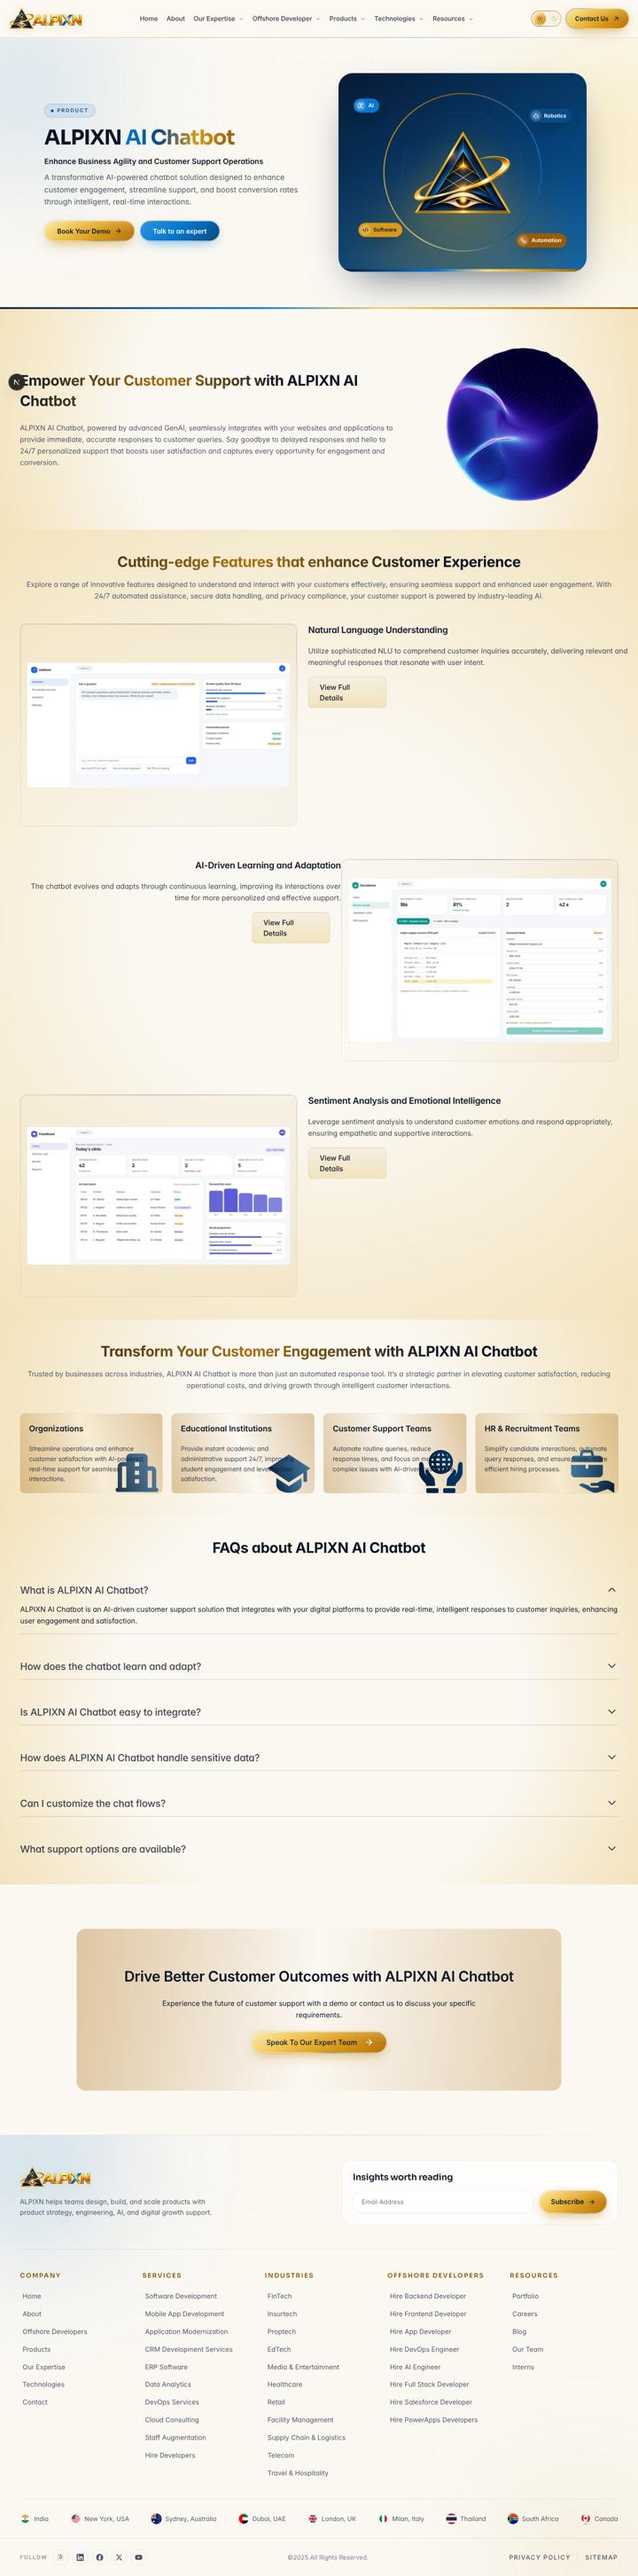
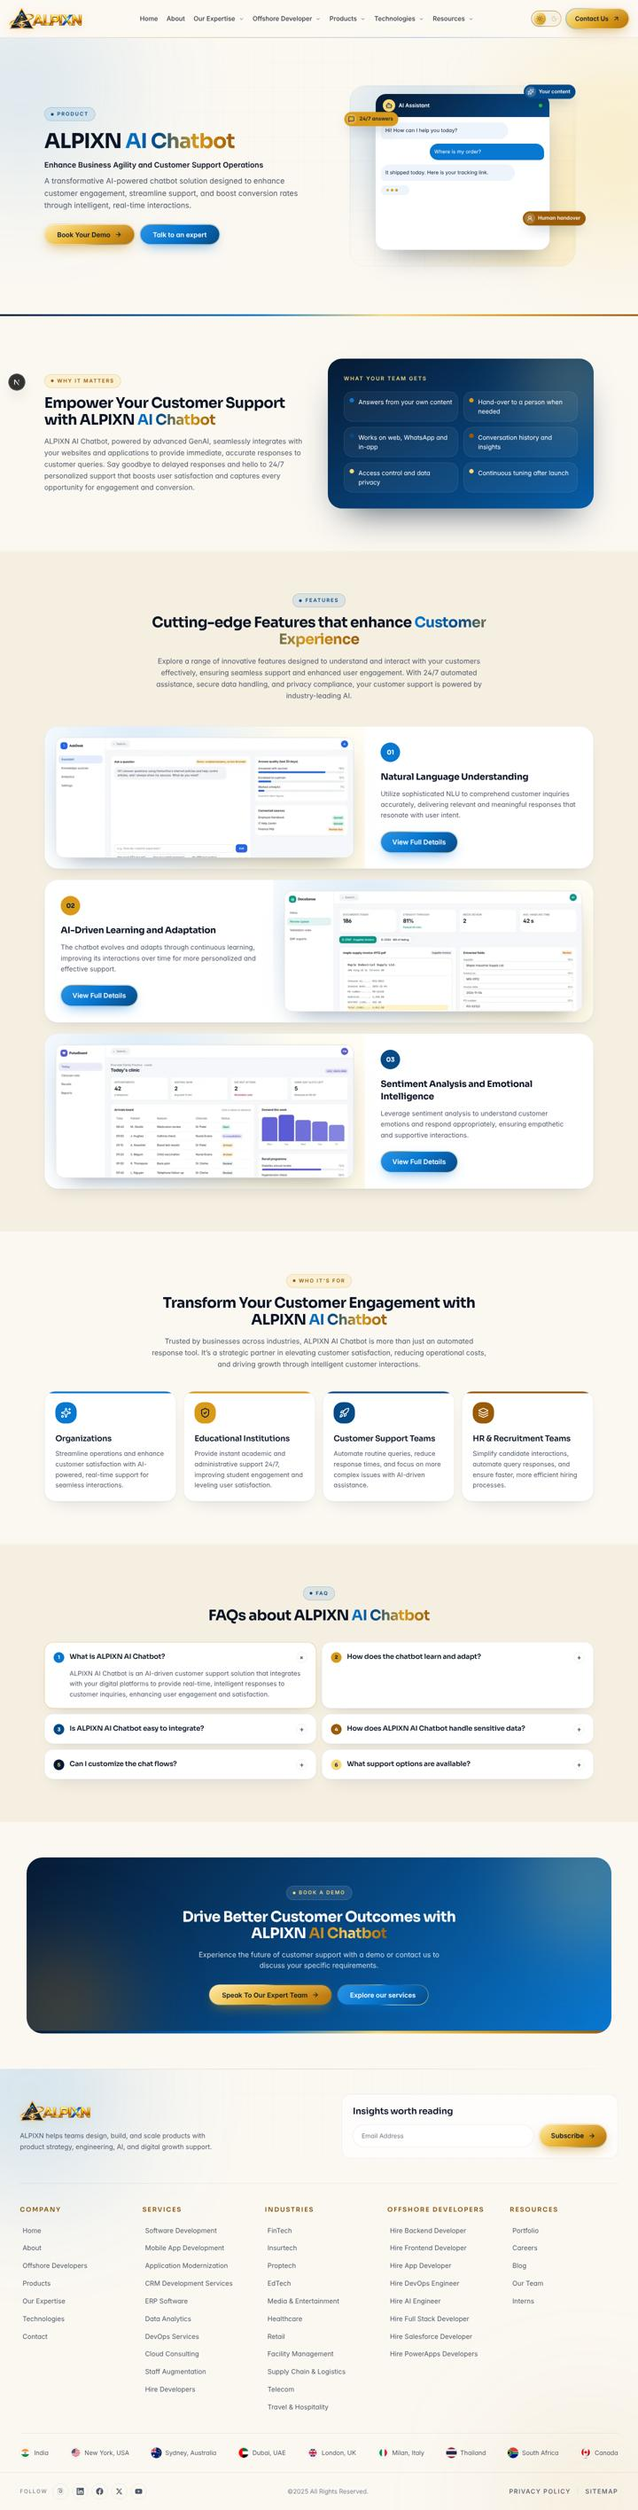
Contact layout fix, team CTA copy, refreshed page previews
Claude-Session: https://claude.ai/code/session_01H12J3DzAnzVLA9j2hPFuqi

diff --git a/lib/content-service.ts b/lib/content-service.ts
@@ -208,8 +208,8 @@ const defaultSiteSettings: SiteSettings = {
       heroTitle: "The Innovators, Creators, and Dreamers",
       heroDescription:
         "Our philosophy is simple: hire great people and give them the support to do their best work.",
-      ctaTitle: "Turn your ideas into stunning visuals",
-      ctaDescription: "Stop imagining and start creating with a team that can turn strong ideas into strong product experiences.",
+      ctaTitle: "Work With Our Team",
+      ctaDescription: "Tell us what you want to build. Our engineers, designers and AI specialists will suggest a sensible first step.",
       ctaButtonLabel: "Get a Free Consultation",
       ctaButtonHref: "/contact-us",
     },

diff --git a/components/sections/contact-us/ContactFromSection.tsx b/components/sections/contact-us/ContactFromSection.tsx
@@ -85,7 +85,6 @@ const ContactFromSection = ({
             </div>
           </div>
 
-          <div />
 
           <div className="flex flex-col gap-[25px] rounded-[32px] border border-line bg-surface-2 p-6 shadow-[var(--shadow-card)] sm:p-8">
             <div className="flex flex-col gap-[25px]">
